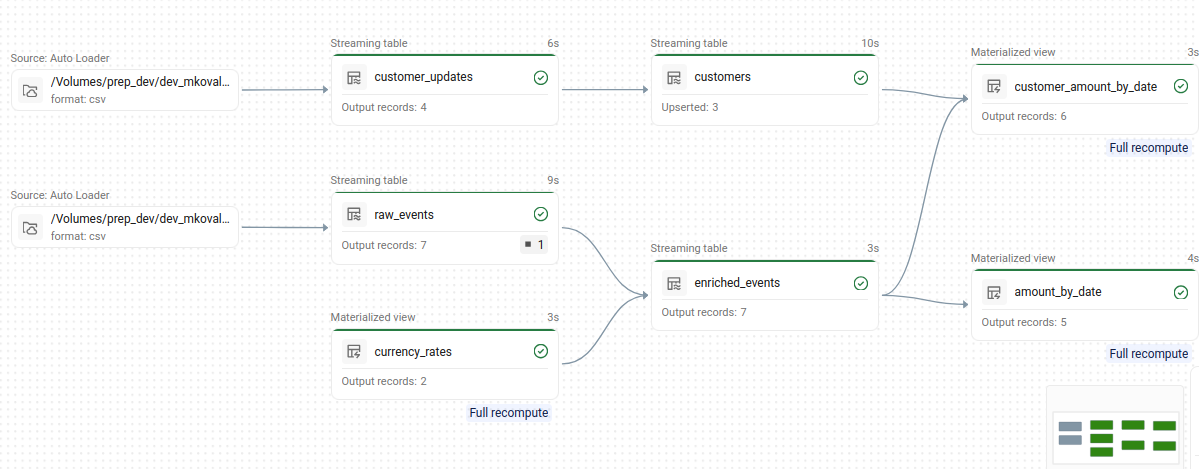
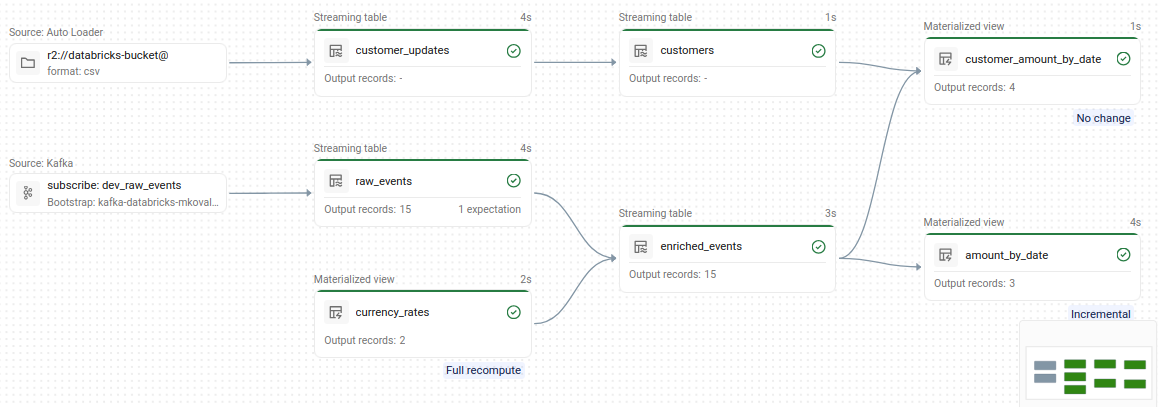
feat(storage): migrate customers data source from DBFS to Cloudflare R2 external location
- Add Cloudflare R2 external location resource and update pipeline to use it
   - Update GitHub Actions workflow to upload customer test data to R2 via AWS CLI instead of DBFS
   - Parameterize service principal ID in databricks.yml targets and permissions
   - Refactor 02_customers_scd2.sql pipeline to read from configured external location path variable

diff --git a/README.md b/README.md
@@ -7,8 +7,8 @@ This repository contains a hands-on Data Engineering project designed for prepar
 Data flows from raw CSV files stored in Unity Catalog Volumes through Medallion layers (Bronze, Silver, Gold) processed via Lakeflow Spark Declarative Pipelines (SDP).
 
 - **Bronze Layer**: 
-  - `raw_events`: Streaming table ingestion via Auto Loader (`read_files`) from `/Volumes/{catalog}/{schema}/files/events` with data quality expectations (dropping rows where `currency` is not `'USD'` or `'BYN'`).
-  - `customer_updates`: Streaming table ingestion via Auto Loader (`read_files`) from `/Volumes/{catalog}/{schema}/files/customers`.
+  - `raw_events`: Streaming table ingestion via Kafka stream (`read_kafka`) from `dev_raw_events` topic with data quality expectations (dropping rows where `currency` is not `'USD'` or `'BYN'`).
+  - `customer_updates`: Streaming table ingestion via Auto Loader (`read_files`) from `r2://<bucket-name>@<cloudflare-account-id>.r2.cloudflarestorage.com/<target>/customers`.
   - `currency_rates`: Static materialized view providing exchange rates for `USD` and `BYN`.
 - **Silver Layer**:
   - `enriched_events`: Streaming table joining `raw_events` with `currency_rates` (stream-static join) to normalize amounts into `amount_byn`.
@@ -21,8 +21,8 @@ Data flows from raw CSV files stored in Unity Catalog Volumes through Medallion 
 ```mermaid
 graph TD
     subgraph Unity Catalog Volumes
-        EV[Events CSVs] --> RE[Streaming Table: raw_events]
-        CV[Customers CSVs] --> CU[Streaming Table: customer_updates]
+        EV[Kafka stream events] --> RE[Streaming Table: raw_events]
+        CV[Customers CSVs in R2] --> CU[Streaming Table: customer_updates]
     end
 
     subgraph Bronze / Silver
